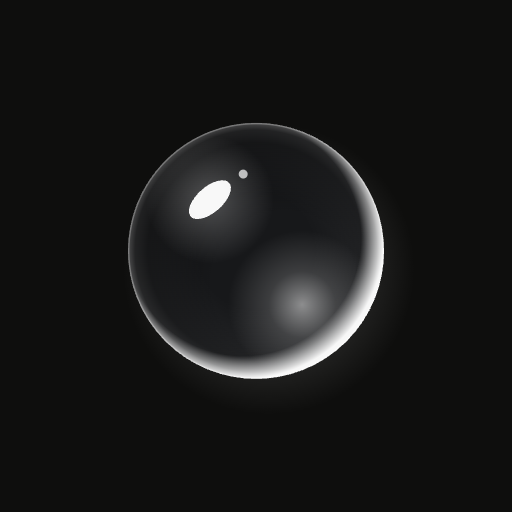
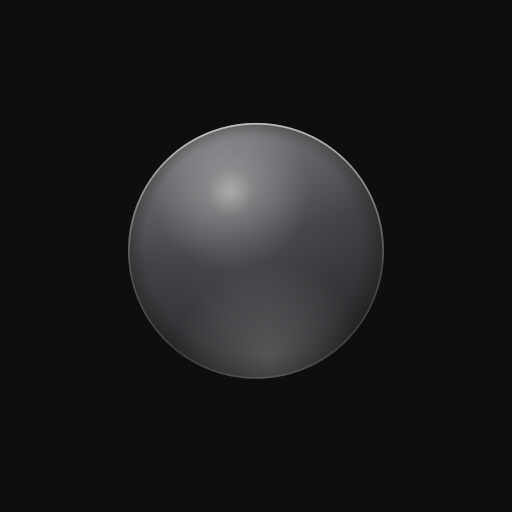
Quieter marbles: smoked glass under one soft light

Changed region(s): [[0.25, 0.2188, 0.75, 0.75]]

diff --git a/src/marble.ts b/src/marble.ts
@@ -12,91 +12,67 @@ export const colorIndex = (_name: string) => 0;
 
 export const cssColor = (_ci: number) => '#fff';
 
-/** Paints one clear glass marble of radius r centred on (cx, cy). */
+/**
+ * Paints one marble of radius r centred on (cx, cy): smoked glass under a single soft
+ * light from above. Nothing here is brighter than it needs to be to read as a sphere.
+ */
 export function paintMarble(
   ctx: CanvasRenderingContext2D,
   cx: number,
   cy: number,
   r: number,
   _ci = 0,
-  shadow = true,
+  _shadow = true,
 ) {
   const w = (a: number) => `rgba(255,255,255,${a})`;
   let g: CanvasGradient;
 
-  if (shadow) {
-    // light the glass throws onto the surface beneath it, bottom-right
-    g = ctx.createRadialGradient(cx + r * 0.1, cy + r * 0.14, r * 0.7, cx + r * 0.1, cy + r * 0.14, r * 1.14);
-    g.addColorStop(0, w(0.1));
-    g.addColorStop(1, w(0));
-    ctx.fillStyle = g;
-    ctx.fillRect(cx - r * PAD, cy - r * PAD, r * PAD * 2, r * PAD * 2);
-  }
-
+  ctx.save();
   ctx.beginPath();
   ctx.arc(cx, cy, r, 0, Math.PI * 2);
-  ctx.save();
   ctx.clip();
 
-  // the glass itself: nearly clear, a shade off the background
-  ctx.fillStyle = '#17181a';
-  ctx.fillRect(cx - r, cy - r, r * 2, r * 2);
-
-  // fresnel: transparent face-on, brightening sharply toward the silhouette
-  g = ctx.createRadialGradient(cx, cy, r * 0.45, cx, cy, r);
-  g.addColorStop(0, w(0));
-  g.addColorStop(0.72, w(0.05));
-  g.addColorStop(0.9, w(0.16));
-  g.addColorStop(0.975, w(0.42));
-  g.addColorStop(1, w(0.7));
+  // body: lit from above, falling away evenly to the base
+  g = ctx.createLinearGradient(cx - r * 0.25, cy - r, cx + r * 0.25, cy + r);
+  g.addColorStop(0, '#8a8a8e');
+  g.addColorStop(0.45, '#4a4a4e');
+  g.addColorStop(1, '#2a2a2d');
   ctx.fillStyle = g;
   ctx.fillRect(cx - r, cy - r, r * 2, r * 2);
 
-  // inner shade under the top-left edge gives the ball its depth
-  g = ctx.createRadialGradient(cx + r * 0.22, cy + r * 0.26, r * 0.55, cx + r * 0.22, cy + r * 0.26, r * 1.3);
+  // curvature: the face stays open, the sides turn away into shade
+  g = ctx.createRadialGradient(cx - r * 0.12, cy - r * 0.2, r * 0.3, cx, cy, r);
   g.addColorStop(0, 'rgba(0,0,0,0)');
-  g.addColorStop(1, 'rgba(0,0,0,0.5)');
+  g.addColorStop(0.78, 'rgba(0,0,0,0.1)');
+  g.addColorStop(1, 'rgba(0,0,0,0.34)');
   ctx.fillStyle = g;
   ctx.fillRect(cx - r, cy - r, r * 2, r * 2);
 
-  // light focused through the sphere pools opposite the source
-  g = ctx.createRadialGradient(cx + r * 0.36, cy + r * 0.42, 0, cx + r * 0.36, cy + r * 0.42, r * 0.58);
-  g.addColorStop(0, w(0.5));
-  g.addColorStop(0.45, w(0.16));
+  // one diffuse highlight, no hard edge
+  const hx = cx - r * 0.2;
+  const hy = cy - r * 0.46;
+  g = ctx.createRadialGradient(hx, hy, 0, hx, hy, r * 0.62);
+  g.addColorStop(0, w(0.46));
+  g.addColorStop(0.3, w(0.2));
   g.addColorStop(1, w(0));
   ctx.fillStyle = g;
   ctx.fillRect(cx - r, cy - r, r * 2, r * 2);
 
-  // bright rim along the bottom-right
-  g = ctx.createRadialGradient(cx - r * 0.1, cy - r * 0.1, r * 0.92, cx - r * 0.1, cy - r * 0.1, r * 1.1);
-  g.addColorStop(0, w(0));
-  g.addColorStop(1, w(0.95));
-  ctx.fillStyle = g;
-  ctx.fillRect(cx - r, cy - r, r * 2, r * 2);
-
-  // broad soft reflection across the upper-left
-  const hx = cx - r * 0.36;
-  const hy = cy - r * 0.4;
-  g = ctx.createRadialGradient(hx, hy, 0, hx, hy, r * 0.5);
-  g.addColorStop(0, w(0.26));
+  // a breath of light returning through the base
+  g = ctx.createRadialGradient(cx + r * 0.1, cy + r * 0.82, 0, cx + r * 0.1, cy + r * 0.82, r * 0.75);
+  g.addColorStop(0, w(0.2));
   g.addColorStop(1, w(0));
   ctx.fillStyle = g;
   ctx.fillRect(cx - r, cy - r, r * 2, r * 2);
   ctx.restore();
 
-  // crisp specular, with a pinpoint beside it
-  ctx.fillStyle = w(0.96);
-  ctx.beginPath();
-  ctx.ellipse(hx, hy, r * 0.2, r * 0.1, -0.72, 0, Math.PI * 2);
-  ctx.fill();
-  ctx.fillStyle = w(0.7);
-  ctx.beginPath();
-  ctx.arc(cx - r * 0.1, cy - r * 0.6, r * 0.035, 0, Math.PI * 2);
-  ctx.fill();
-
-  // hairline edge keeps small marbles defined
-  ctx.strokeStyle = w(0.22);
-  ctx.lineWidth = Math.max(r * 0.012, 0.5);
+  // hairline edge, catching the light at the top and fading out below
+  g = ctx.createLinearGradient(cx, cy - r, cx, cy + r);
+  g.addColorStop(0, w(0.6));
+  g.addColorStop(0.55, w(0.16));
+  g.addColorStop(1, w(0.1));
+  ctx.strokeStyle = g;
+  ctx.lineWidth = Math.max(r * 0.014, 0.5);
   ctx.beginPath();
   ctx.arc(cx, cy, r - ctx.lineWidth / 2, 0, Math.PI * 2);
   ctx.stroke();
